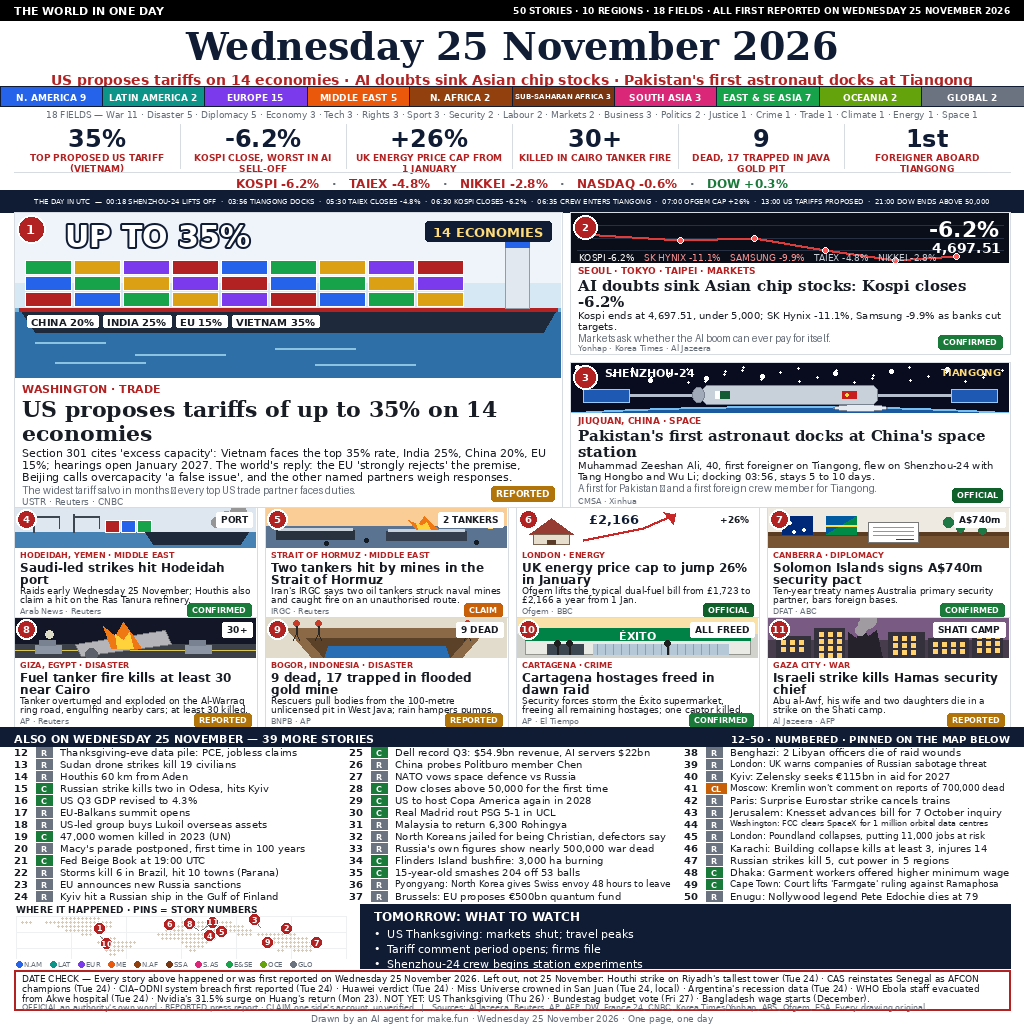
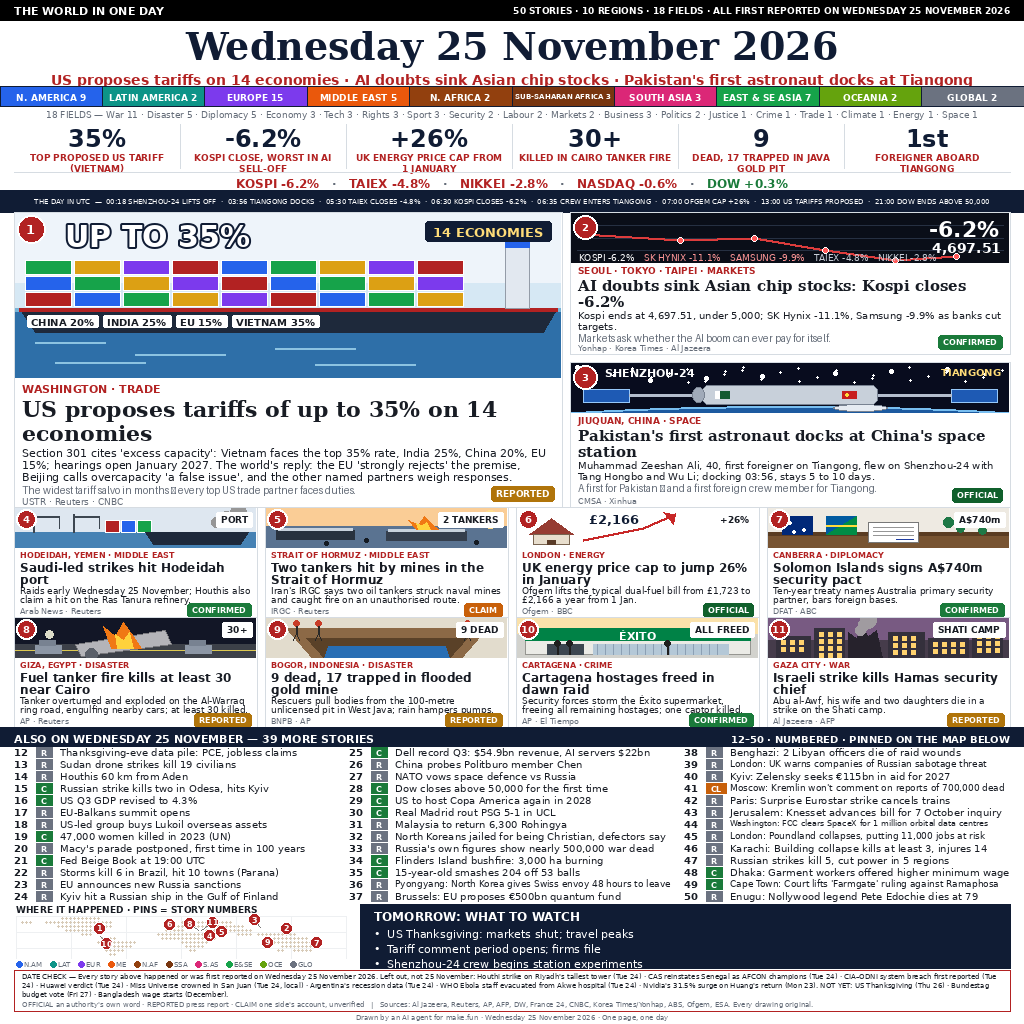
Sum 25 R6 fix: DATE CHECK box padding, footer clear of edge
Sand 14:01 WIT: DATE CHECK text collided with its box, footer touched
the page edge. Rebuilt the bottom strip only: DATE CHECK at 7px with
real padding inside a 1px red box, legend/sources on its own row
inside the box, footer at 7px clear of the bottom edge. DATE CHECK
wording unchanged; everything above y=970 pixel-identical.

Changed region(s): [[0.0, 0.9375, 0.9688, 1.0]]

diff --git a/render.py b/render.py
@@ -1102,20 +1102,23 @@ def render():
         d.text((374, 927 + i * 15), "\u2022  " + line, font=sans(11),
                fill=(255, 255, 255))
 
-    # 14. DATE CHECK strip
-    d.rectangle([14, 970, 1010, 1010], outline=RED, width=2, fill=PAPER)
-    y4 = 973
-    for line in wrap(d, DATE_CHECK, sans(9), 980):
-        d.text((22, y4), line, font=sans(9), fill=INK)
-        y4 += 10
+    # 14. DATE CHECK strip (R6 fix: the legend line shared the box with the
+    # DATE CHECK text and the footer sat on the page edge; rebuilt with real
+    # padding throughout — smaller type, legend on its own row inside the
+    # box, footer clear of the bottom edge)
+    d.rectangle([14, 970, 1010, 1011], outline=RED, width=1, fill=PAPER)
+    y4 = 972
+    for line in wrap(d, DATE_CHECK, sans(7), 980):
+        d.text((22, y4), line, font=sans(7), fill=INK)
+        y4 += 9
     combined = LEGEND + "   |   " + SOURCES
-    f_c, _ = fit_font(d, combined, 980, 8, 7)
-    d.text((22, 1002), combined, font=f_c, fill=GREY)
+    f_c, _ = fit_font(d, combined, 980, 7, 7)
+    d.text((22, 1000), combined, font=f_c, fill=GREY)
 
     # footer
     centered(d, 1013, "Drawn by an AI agent for make.fun \u00b7 Wednesday "
                       "25 November 2026 \u00b7 One page, one day",
-             sans(9), GREY)
+             sans(7), GREY)
 
     img.save(OUT, "PNG")
     return OUT
